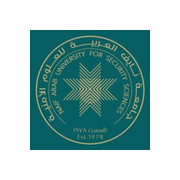
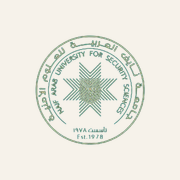
إصلاح شفافية الشعارات وأخطاء الـ PDF
- قصّ خلفية شعار الجامعة (كانت خلفية نيلية داكنة) وشعار الشراكات (بيضاء)
  لتصبح شفافة فعلًا، مع نسخ بيضاء نظيفة للخلفيات الداكنة
- إصلاح الغلاف الخلفي للـ PDF (كان يظهر مربّع أبيض بدل شعار الجامعة)
- إزالة العلامة المائية من صفحات محتوى الـ PDF (كانت تُنشئ صفحات فارغة)
- إعادة توليد أيقونات التطبيق بالشعار الجديد

diff --git a/src/features/magazine/pdf.tsx b/src/features/magazine/pdf.tsx
@@ -147,9 +147,6 @@ export function MagazinePDF({
 
       {/* ===== التعريف + المدربون + الجدول ===== */}
       <Page size="A4" style={s.page}>
-        {assets.watermark ? (
-          <Image src={assets.watermark} style={{ position: 'absolute', top: 0, left: 0, width: '100%', height: '100%', objectFit: 'cover', opacity: 0.045 }} />
-        ) : null}
         <Header title={course.title} logo={assets.logoNauss} />
         <View style={s.body}>
           {course.description ? (
@@ -192,9 +189,6 @@ export function MagazinePDF({
       {/* ===== صفحات المعرض: صورتان كبيرتان بعرض الصفحة ===== */}
       {pairs.map((pair, idx) => (
         <Page key={idx} size="A4" style={s.page}>
-          {assets.watermark ? (
-            <Image src={assets.watermark} style={{ position: 'absolute', top: 0, left: 0, width: '100%', height: '100%', objectFit: 'cover', opacity: 0.045 }} />
-          ) : null}
           <Header title={course.title} logo={assets.logoNauss} />
           <View style={s.body}>
             {idx === 0 ? (
